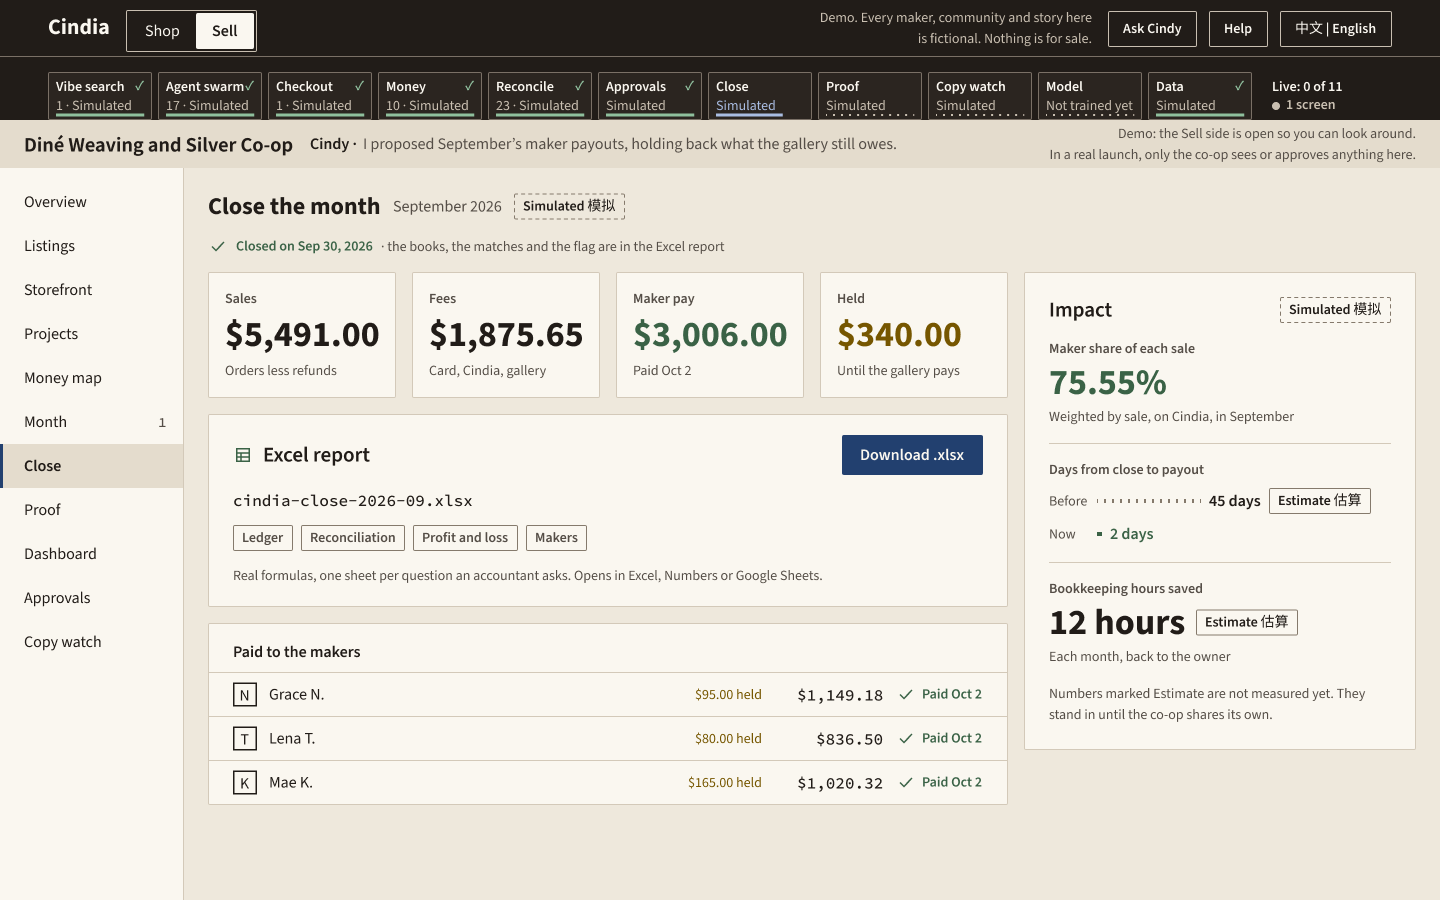
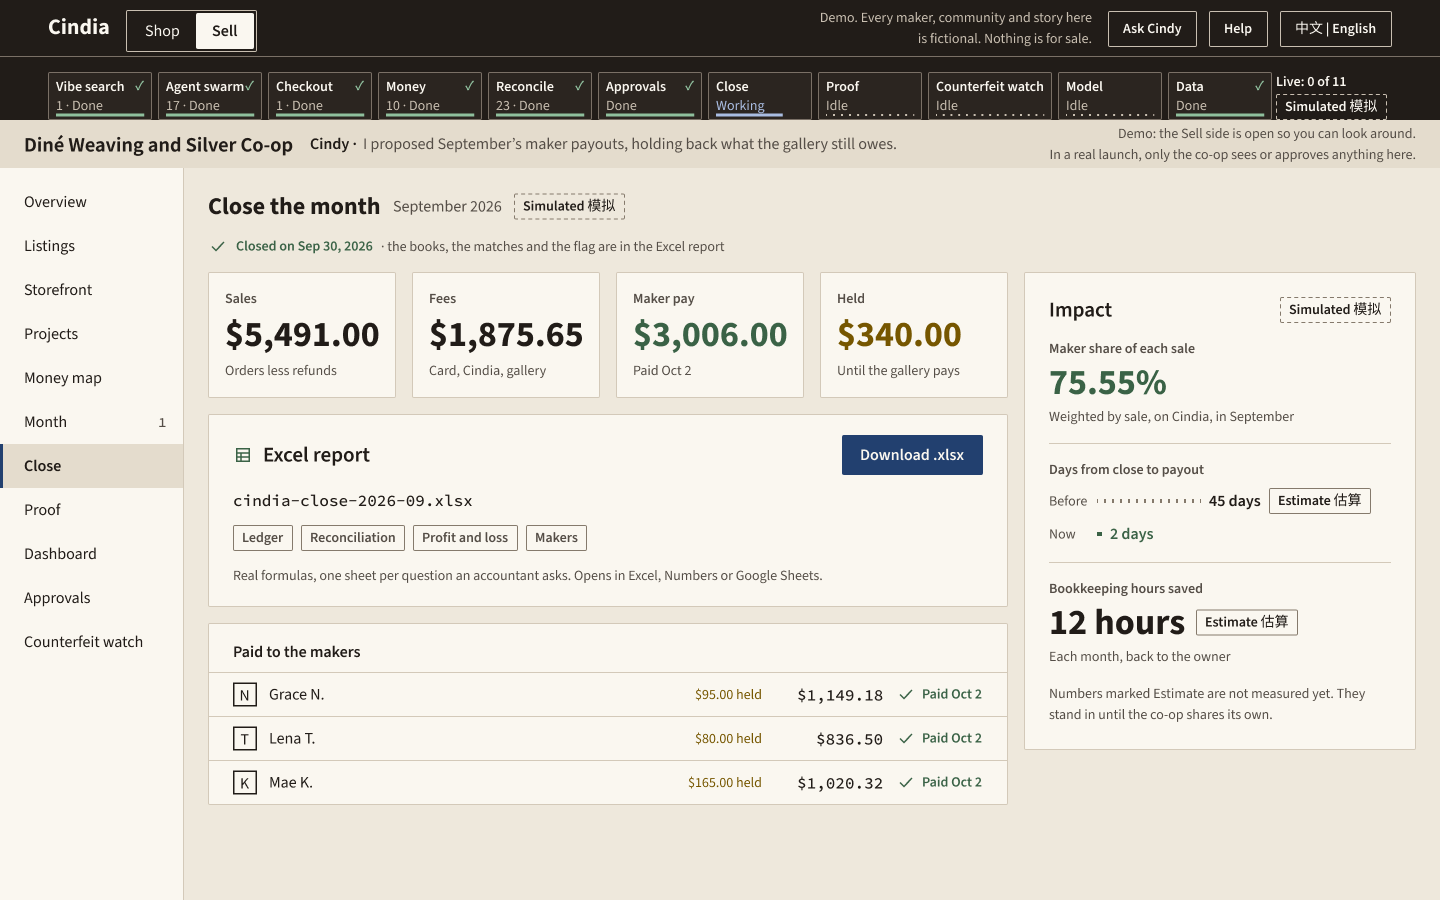
v2 fix: plans and contracts after review
The approved fix plan, applied by nine fix agents, re-checked by three
fresh checkers and corrected by six fixers. Native American makers only,
v1 re-skinned as the Diné co-op in R0, the 3-minute scripted tour with
presenter mode, the three backend pillars, mock data only, and the
harness fixes for the cloud build. fix-plan.md now says APPLIED.

Claude-Session: https://claude.ai/code/session_01JjbAis91jVj1phbgkn75Tj

diff --git a/docs/v2/fix-plan.md b/docs/v2/fix-plan.md
@@ -1,8 +1,6 @@
 # v2 fix plan
 
-**Status: APPROVED by Gordon at 4:25 PM PT on Oct 24, with his changes: Native American makers only (scope C), the "underrepresented makers" framing, and Cindia called a platform. Being applied now.** Fix agents apply it to the plans, the contracts and the harness. A fresh agent re-checks the result, and the build session starts.
-
-**Build sessions: don't start V0 until this status line says APPLIED.** Until then the plans on `main` are mid-edit.
+**Status: APPLIED at 6:00 PM PT on Oct 24.** Gordon approved it at 4:25 PM with his changes: Native American makers only (scope C), the "underrepresented makers" framing, and Cindia called a platform. Section 7 says how it was applied. Build sessions can start V0.
 
 **Build sessions: work on `main`.** A cloud session may start on its own `claude/...` branch. Before V0, run `git fetch origin` and `git checkout -B main origin/main`, then commit and push with `git push origin main` as the runbook says. If GitHub refuses a push to `main`, push to your own branch instead and put "merge `<branch>` into `main`" under Needs Gordon in `status.md`.
 
@@ -239,3 +237,20 @@ You are the orchestrator for the Cindia v2 build. The desktop session is stopped
 ```
 
 This version waits on its own, so the session can be started before the fixes are pushed.
+
+## 7. How it was applied
+
+1. Nine fix agents (FX1 to FX9) applied sections 1 and 2 to their own files, and one more (FXC) folded in the items each found for the others.
+2. Three fresh checkers re-read everything against this plan and the contracts. Their findings are in `docs/v2/reviews/FX10a-shared-names-recheck.md`, `FX10b-features-recheck.md` and `FX10c-backend-harness-recheck.md`. They found all 16 blockers from B1, D1 and D2 resolved, and the backend ones from B2 resolved once the model hand-off step was added.
+3. Six fixers applied those findings, with these choices settled where a finding offered two:
+   - a number the model rewrites after training is never typed in a test,
+   - the core gate runs `check`, `test:smoke`, `test:demo` and `test:server`,
+   - G5 names its live spec by path,
+   - B12 starts after B11's T5 and T6,
+   - d15's `data.synced` is the one tour event keyed `b13-live`,
+   - the ask-the-maker store key is `support.questions`,
+   - `allApprovals` and `allFollowUps` are new mock exports,
+   - the brief keeps the pitch's claims, which its "Backend if time" table lists.
+4. `node .claude/hooks/test-hooks.mjs` passes 338 of 338. The v1 plans that still use the old Gu names carry a "v1 history" note pointing at R0.
+
+Left for Gordon: the Chinese of L1, L2, L4, L15 and the co-op's place (美国亚利桑那州纳瓦霍保留区), the font change for I3, an optional Census poverty figure for the brief, and the items in section 5.

diff --git a/docs/plans/S2-mock-data.md b/docs/plans/S2-mock-data.md
@@ -1,5 +1,7 @@
 # S2-mock-data · The studio's September, the answer key and the timelines
 
+> **v1 history.** This plan was built and is green in v1. Its names (the Gu embroidery studio, its makers and pieces) are from before R0, which re-skins v1 as the Diné Weaving and Silver Co-op with every number unchanged. For current names, read `docs/plans/R0-reskin.md` and `docs/v2/contracts.md`.
+
 Priority: P0 · Wave: S2 · Depends on: G1 · Folder: `src/mock/`, `tests/data/` · Made real by: B01 (matches and the flag), B10 (derived figures)
 
 ## Goal

diff --git a/docs/plans/F-maker-statement.md b/docs/plans/F-maker-statement.md
@@ -1,5 +1,7 @@
 # F-maker-statement · A maker's statement in Chinese (F11)
 
+> **v1 history.** This plan was built and is green in v1. Its names (the Gu embroidery studio, its makers and pieces) are from before R0, which re-skins v1 as the Diné Weaving and Silver Co-op with every number unchanged. For current names, read `docs/plans/R0-reskin.md` and `docs/v2/contracts.md`.
+
 Priority: P0 · Wave: W1 · Depends on: G2 · Folder: src/features/maker-statement/ · Made real by: B10
 
 ## Goal

diff --git a/docs/plans/F-approvals.md b/docs/plans/F-approvals.md
@@ -1,5 +1,7 @@
 # F-approvals · The owner approves (F9)
 
+> **v1 history.** This plan was built and is green in v1. Its names (the Gu embroidery studio, its makers and pieces) are from before R0, which re-skins v1 as the Diné Weaving and Silver Co-op with every number unchanged. For current names, read `docs/plans/R0-reskin.md` and `docs/v2/contracts.md`.
+
 Priority: P0 · Wave: W1 · Depends on: G2 · Folder: src/features/approvals/ · Made real by: B02, B08
 
 ## Goal

diff --git a/docs/plans/F-buyer.md b/docs/plans/F-buyer.md
@@ -1,5 +1,7 @@
 # F-buyer · Buyer flow (F1 to F5)
 
+> **v1 history.** This plan was built and is green in v1. Its names (the Gu embroidery studio, its makers and pieces) are from before R0, which re-skins v1 as the Diné Weaving and Silver Co-op with every number unchanged. For current names, read `docs/plans/R0-reskin.md` and `docs/v2/contracts.md`.
+
 Priority: P0 · Wave: W1 · Depends on: G2 · Folder: src/features/buyer/ · Made real by: B09, B10, B04
 
 ## Goal

diff --git a/docs/plans/F-money-map.md b/docs/plans/F-money-map.md
@@ -1,5 +1,7 @@
 # F-money-map · Money map (F6)
 
+> **v1 history.** This plan was built and is green in v1. Its names (the Gu embroidery studio, its makers and pieces) are from before R0, which re-skins v1 as the Diné Weaving and Silver Co-op with every number unchanged. For current names, read `docs/plans/R0-reskin.md` and `docs/v2/contracts.md`.
+
 Priority: P0 · Wave: W1 · Depends on: G2 · Folder: src/features/money-map/ · Made real by: B04
 
 ## Goal
